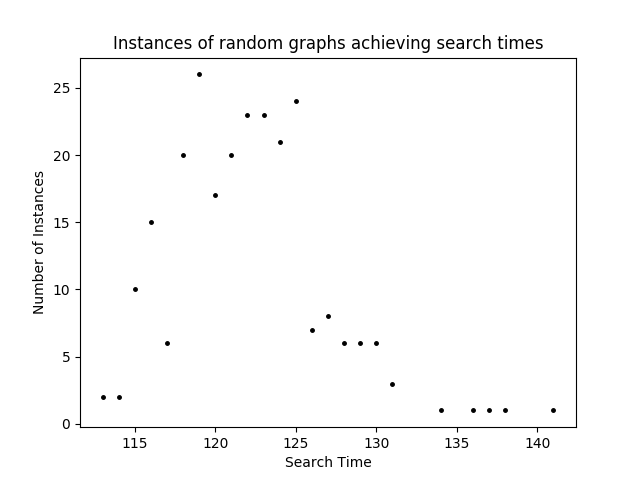
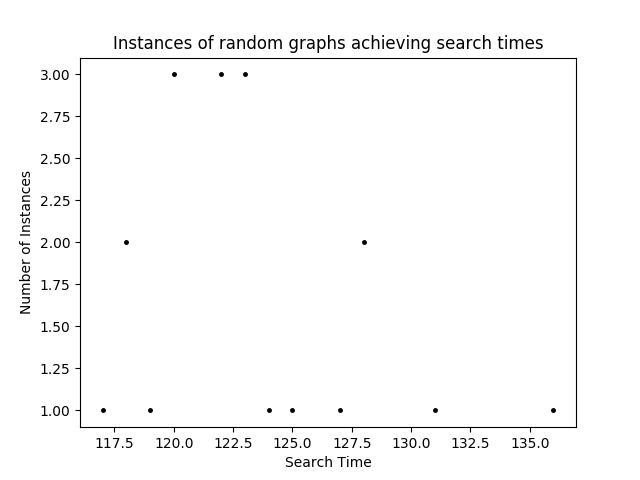
True random search committed

diff --git a/Assignment/searching.py b/Assignment/searching.py
@@ -32,18 +32,6 @@ def random_search(graph, start, end):
         n = len(neighbours)
         queried = []
 
-        # n = 0 gave 1304, 3 game 1268, 5 gave 1302, 10 gave 846, 20 gave 124. More experimentation needed perhaps.
-        # if n > 0:
-        #     while len(queried) < n:
-        #         selection = random.choice(range(n))
-        #         while selection in queried:
-        #             selection = random.choice(range(n))
-        #         queried.append(selection)
-        #         queries += 1
-        #         if selection == end:
-        #             return queries
-        #     current = random.choice(neighbours)
-        # else:
         current = random.choice(neighbours)
         queries += 1
 
@@ -65,7 +53,7 @@ def print_random_graph():
 
     distribution = {}
 
-    for i in range(100):
+    for i in range(250):
         random_graph = make_random_graph(100, 0.1)
         avg_search_time = average_search_time_random(random_graph)
         print("Search time for graph", i, "is", avg_search_time)
@@ -188,4 +176,4 @@ def print_ring_graph():
 
 
 if __name__ == '__main__':
-    print_ring_graph()
+    print_random_graph()
